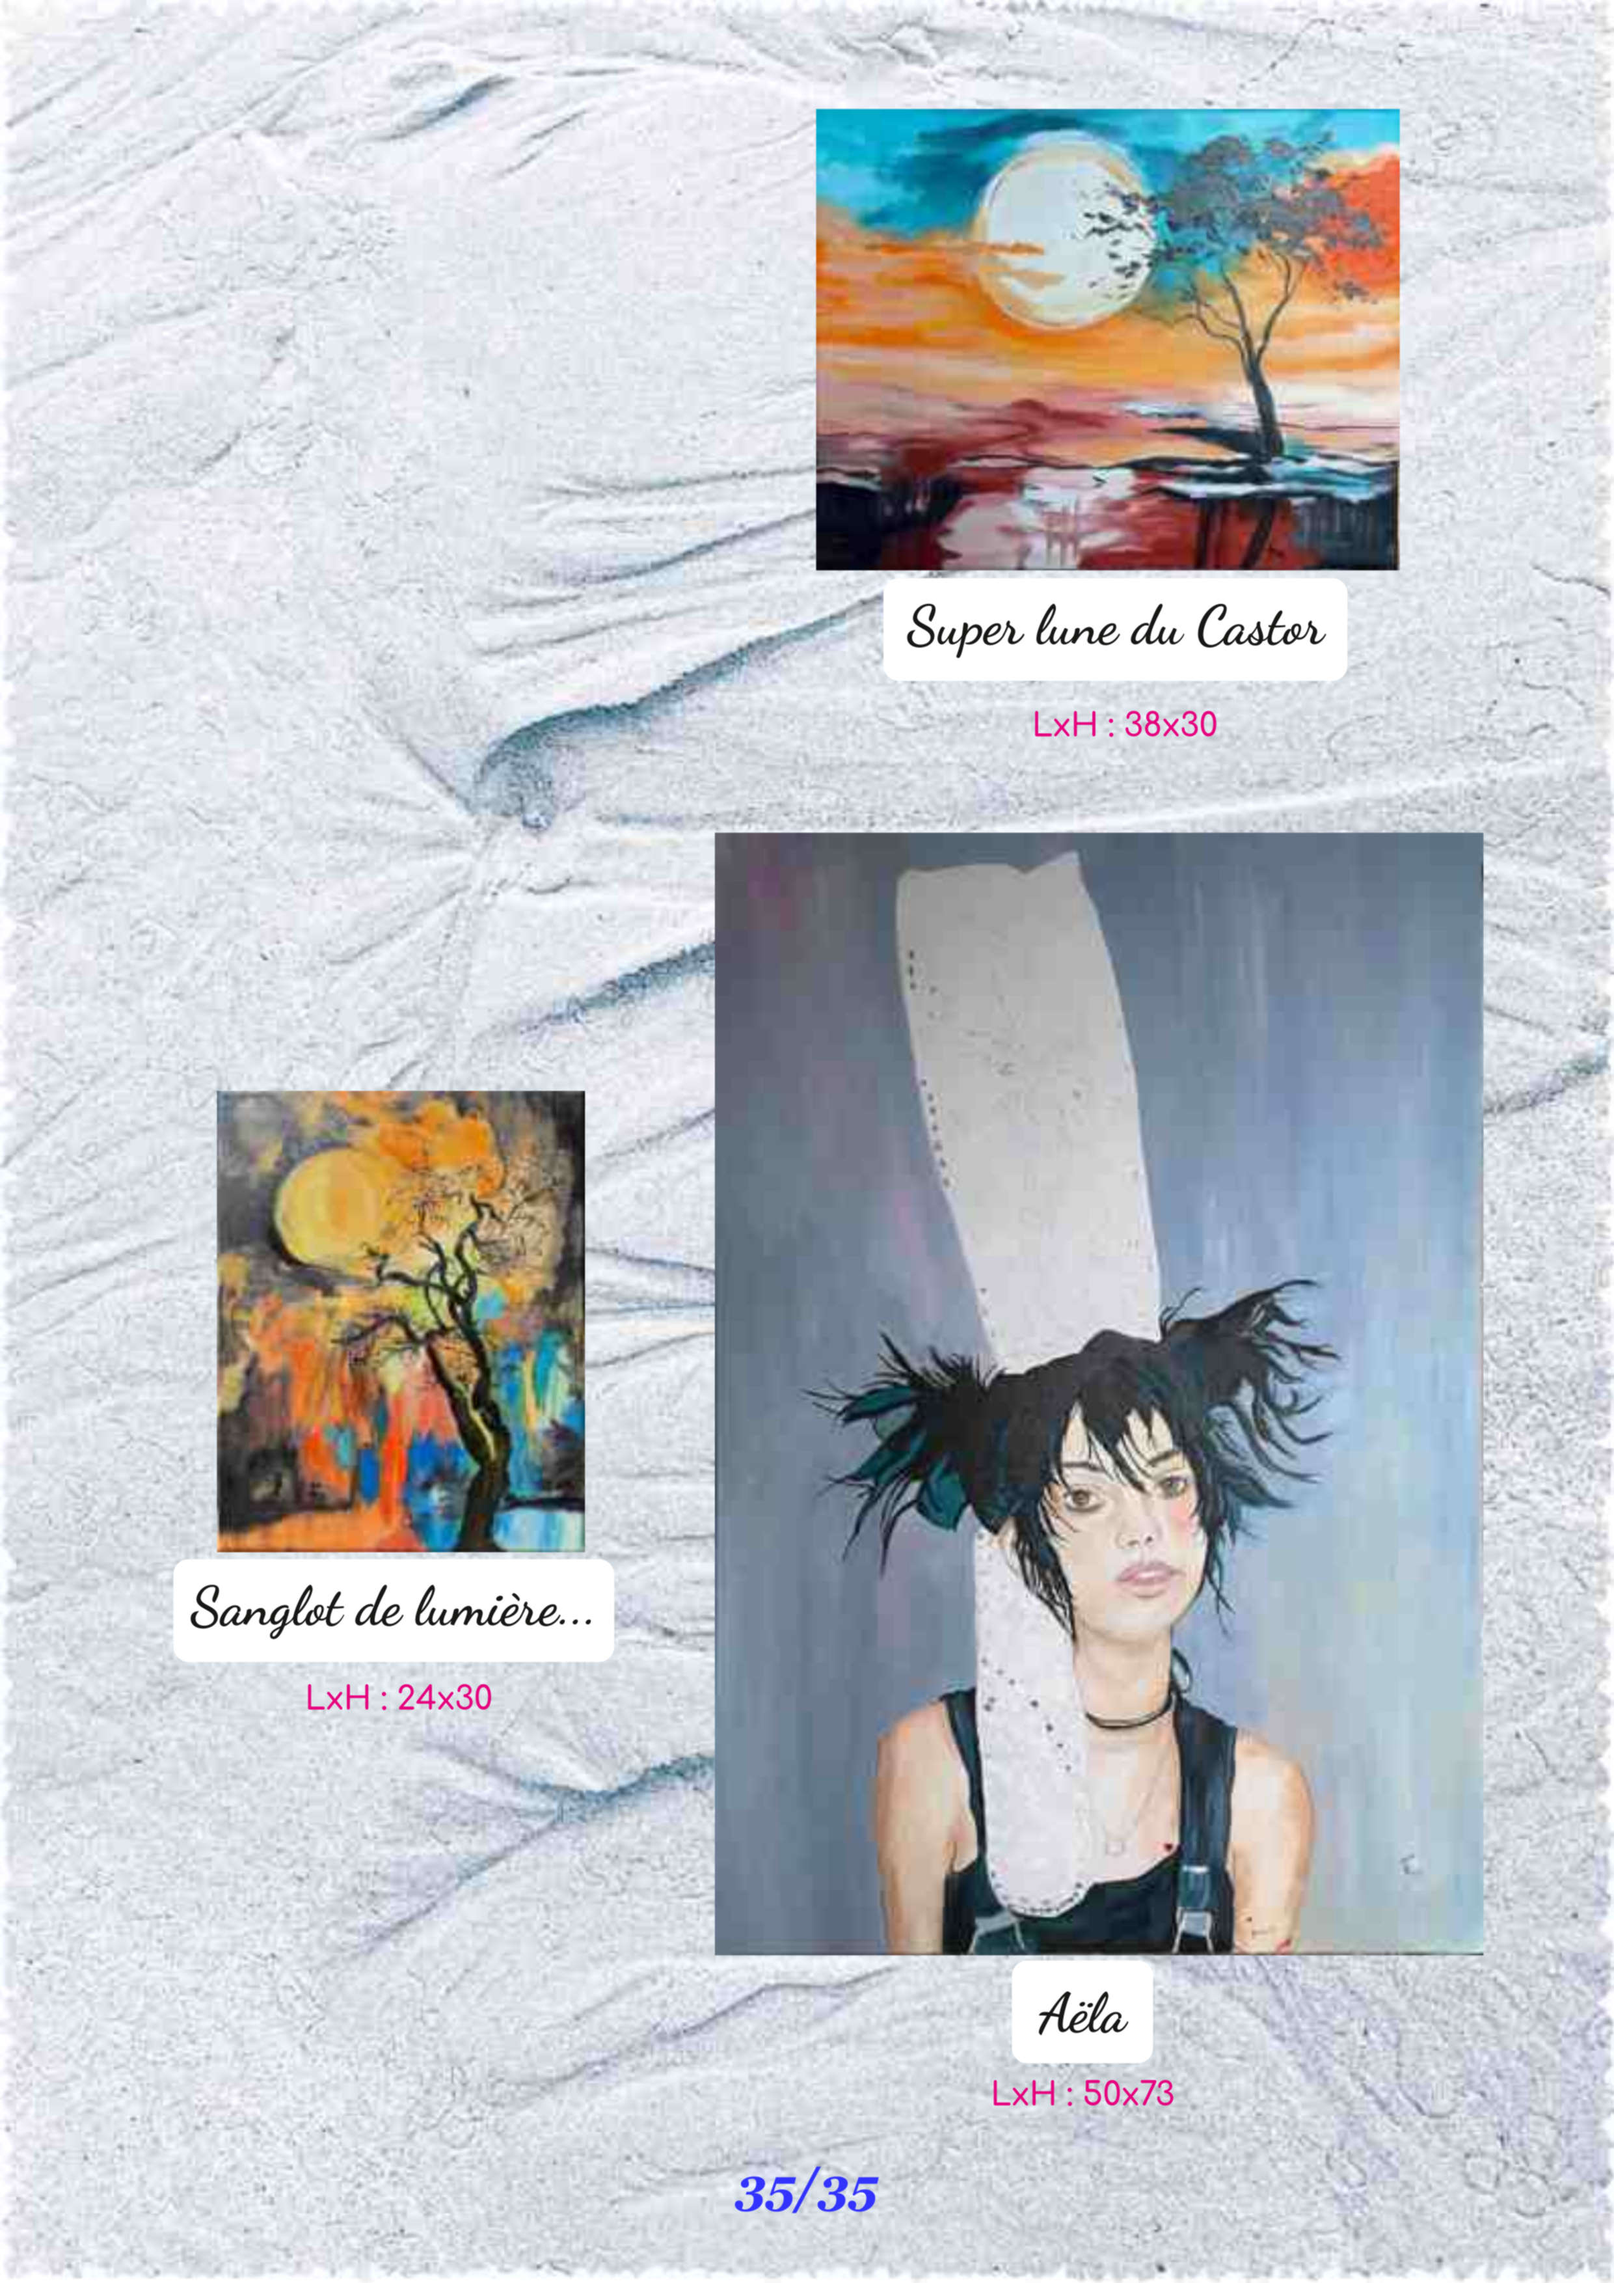
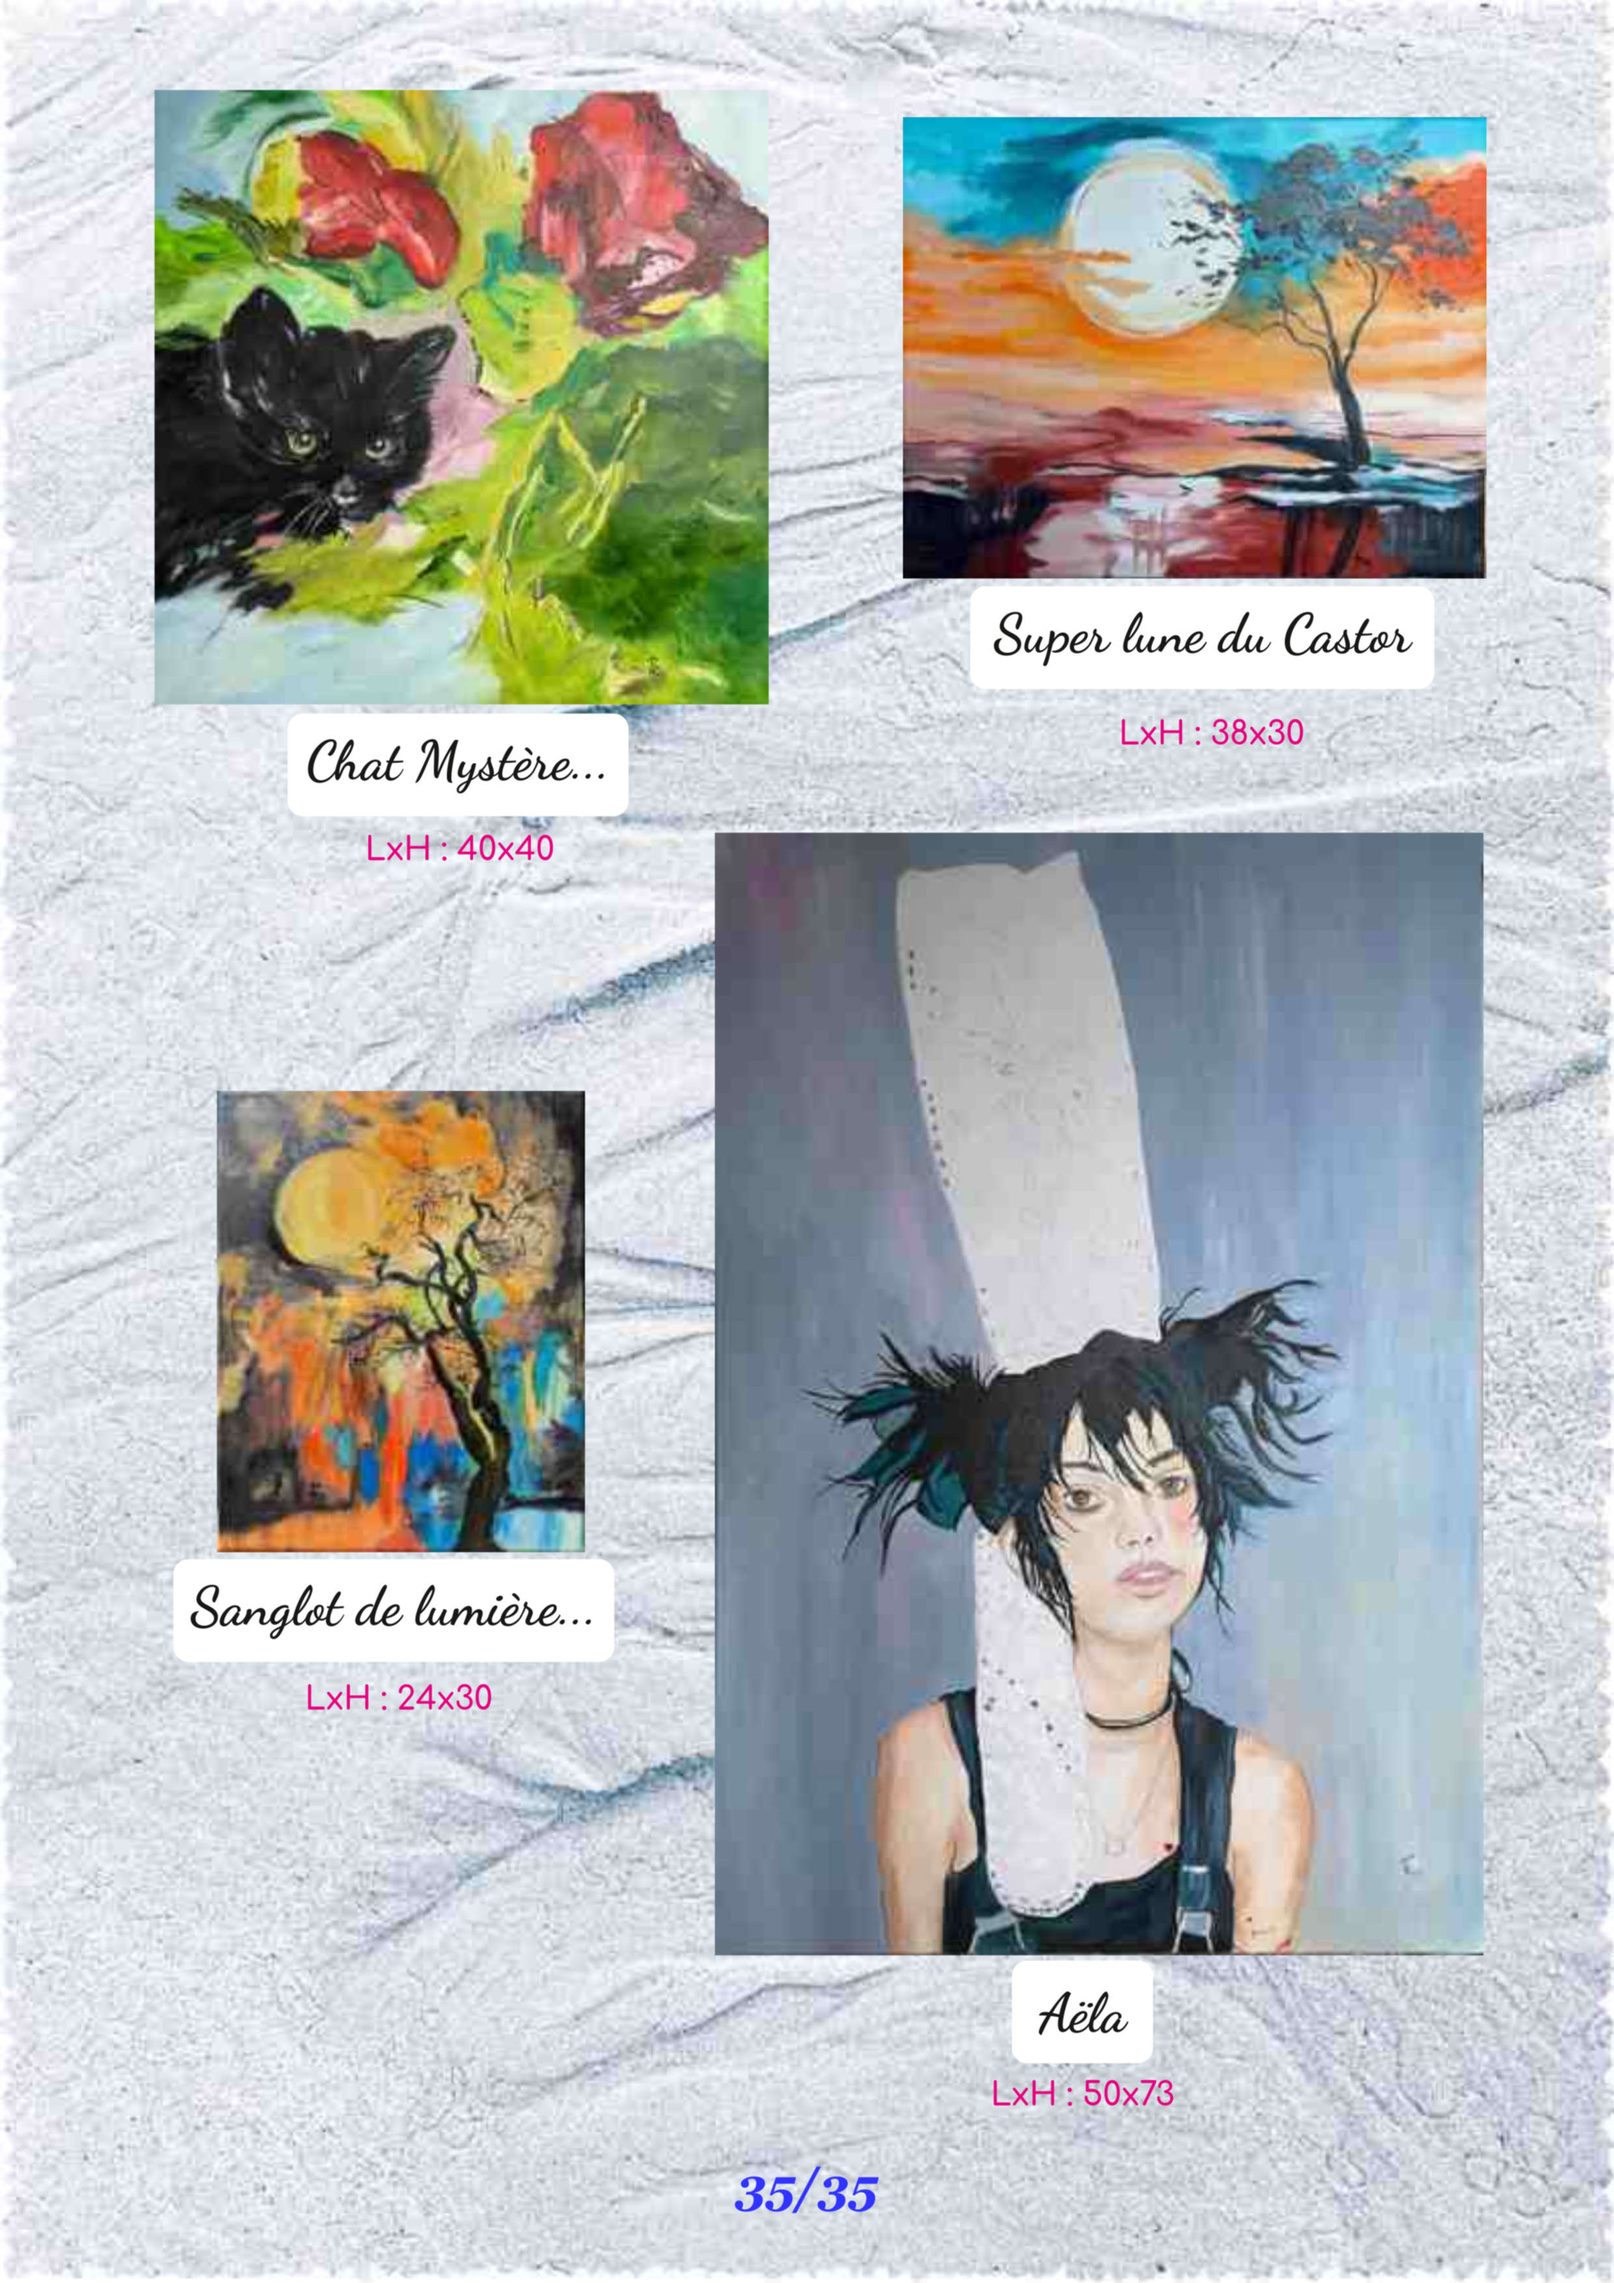
ajout pages et diminution poids photos

Changed region(s): [[0.0931, 0.0311, 0.9311, 0.3729]]

diff --git a/content/blanche/_index.md b/content/blanche/_index.md
@@ -2,14 +2,14 @@
 title: ""
 date: 2024-12-18T20:24:59+01:00
 weight: 0
-albumthumb: "/blanche/l_arc_en_ciel_de_blanche.png"
+albumthumb: "/blanche/l_arc_en_ciel_de_blanche.jpg"
 draft: false
 ## Optional additional meta info for resources list
 #  alt: Image alternative and screen-reader text
 #  phototitle: A title for the photo
 #  description: A sub-title or description for the photo
 resources:
-- src: "/blanche/l_arc_en_ciel_de_blanche.png"
+- src: "/blanche/l_arc_en_ciel_de_blanche.jpg"
   weight: 10
 - src: "/blanche/carte_visite_avec_cadre1.jpg"
   weight: 20

diff --git a/content/francoise/_index.md b/content/francoise/_index.md
@@ -2,14 +2,14 @@
 title: ""
 date: 2024-12-17T11:50:50+01:00
 weight: 0
-albumthumb: "/francoise/francoise.png"
+albumthumb: "/francoise/francoise.jpg"
 draft: false
 ## Optional additional meta info for resources list
 #  alt: Image alternative and screen-reader text
 #  phototitle: A title for the photo
 #  description: A sub-title or description for the photo
 resources:
-- src: "/francoise/francoise.png"
+- src: "/francoise/francoise.jpg"
   weight: 10
 - src: "/francoise/presentation.jpg"
   weight: 20

diff --git a/content/catalogue/_index.md b/content/catalogue/_index.md
@@ -81,4 +81,8 @@ resources:
   weight: 350
 - src: "/catalogue/page_1035.jpg"
   weight: 360
+- src: "/catalogue/page_1038.jpg"
+  weight: 370
+- src: "/catalogue/page_1039.jpg"
+  weight: 380
 ---
